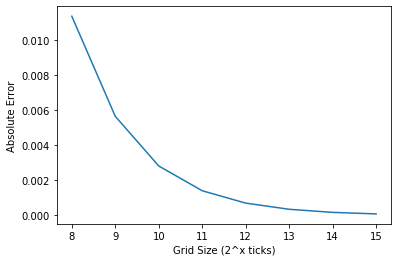
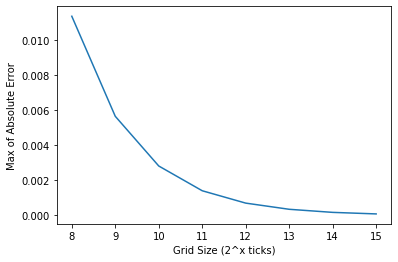
chap9, ex3

Changed region(s): [[0.0, 0.2443, 0.0603, 0.6718]]

diff --git a/chap9/ex3_hello.py b/chap9/ex3_hello.py
@@ -1,0 +1,109 @@
+"""
+Exercise 3 from Lecture 9
+"""
+
+import numpy as np
+import matplotlib.pyplot as plt
+
+'''
+Part (a) - Create "HELLO" matrix with 1's and 0's
+'''
+
+A = np.zeros((15,40))
+
+def vertical (matrix, row, col):
+    matrix[row:row+8][:,col:col+2] = 1
+    return matrix
+
+def horizontal (matrix, row, col):
+    matrix[row:row+2][:,col:col+6] = 1
+    return matrix
+
+# Letter H
+
+A = vertical(A,1,1)
+A = horizontal(A,4,1)
+A = vertical(A,1,5)
+
+# Letter E
+
+A = vertical(A,2,9)
+A = horizontal(A,2,9)
+A = horizontal(A,5,9)
+A = horizontal(A,8,9)
+
+# Letter L
+
+A = vertical(A,3,17)
+A = horizontal(A,9,17)
+
+# Letter L
+
+A = vertical(A,4,25)
+A = horizontal(A,10,25)
+
+# Letter O
+
+A = vertical(A,5,32)
+A = horizontal(A,5,32)
+A = horizontal(A,11,32)
+A = vertical(A,5,37)
+
+plt.spy(A)
+plt.show()
+
+'''
+Part (b) - SVD
+'''
+
+U,S,V = np.linalg.svd(A)
+
+plt.scatter(x=range(15),y=S)
+plt.title("Singular Values (linear scale)")
+plt.show()
+
+plt.semilogy(S, marker = "o", linestyle = "None")
+plt.title("Singular Values (log scale)")
+plt.show()
+
+'''
+Part (c) - Low Rank Approximations
+'''
+
+def low_rank_approx(M,rank):
+    U,S,V = np.linalg.svd(M)
+    X = np.zeros(M.shape)
+    for idx, (u,v) in enumerate(zip(U.T,V)):
+        if idx > rank: return X
+        X += S[idx]*np.outer(u,v)
+    return X
+
+# Rank 1 Approximation
+X1 = low_rank_approx(A,1)
+plt.pcolor(np.flipud(X1), cmap = 'gray')
+plt.title("Rank 1 Approximation")
+plt.show()
+    
+# Rank 3 Approximation
+X3 = low_rank_approx(A,3)
+plt.pcolor(np.flipud(X3), cmap = 'gray')
+plt.title("Rank 3 Approximation")
+plt.show()
+
+# Rank 5 Approximation
+X5 = low_rank_approx(A,5)
+plt.pcolor(np.flipud(X5), cmap = 'gray')
+plt.title("Rank 5 Approximation")
+plt.show()
+
+# Rank 7 Approximation
+X7 = low_rank_approx(A,7)
+plt.pcolor(np.flipud(X7), cmap = 'gray')
+plt.title("Rank 7 Approximation")
+plt.show()
+
+# Rank 9 Approximation
+X9 = low_rank_approx(A,9)
+plt.pcolor(np.flipud(X9), cmap = 'gray')
+plt.title("Rank 9 Approximation")
+plt.show()

diff --git a/chap9/ex1_legendre.py b/chap9/ex1_legendre.py
@@ -49,6 +49,6 @@ y = map(max_error, x)
 
 plt.plot(list(x),list(y))
 plt.xlabel("Grid Size (2^x ticks)")
-plt.ylabel("Absolute Error")
+plt.ylabel("Max of Absolute Error")
 plt.show()
 
